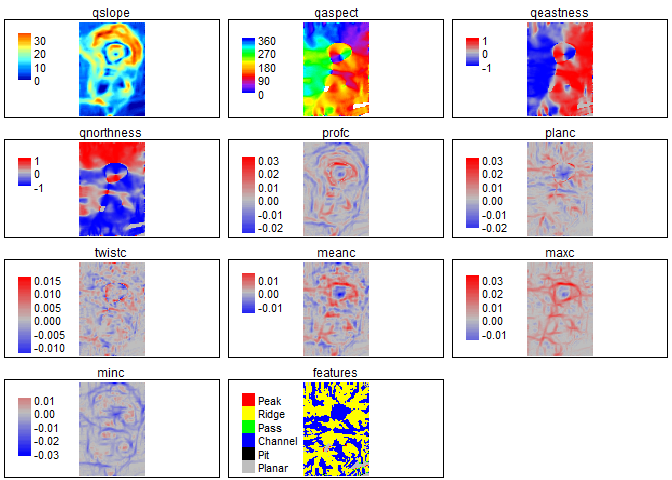
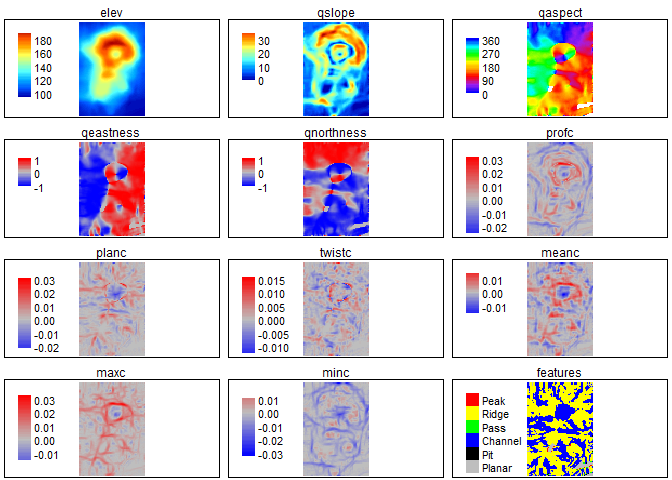
ReadMe update

diff --git a/README.md b/README.md
@@ -1,7 +1,7 @@
 README
 ================
 Alexander Ilich
-December 17, 2021
+December 18, 2021
 
 # MultiscaleDEM
 
@@ -27,8 +27,8 @@ If you don’t already have remotes installed, use the code
 
 Then to install this package use the code
 `remotes::install_github("ailich/MultiscaleDEM")` (you may need to
-install Rtools using the instructions found here:
-<https://cran.r-project.org/bin/windows/Rtools/>)
+install Rtools using the instructions found
+[here](https://cran.r-project.org/bin/windows/Rtools/)
 
 This package relies on the `terra` package for handling of spatial
 raster data. To install the development version of `terra`, use
@@ -133,14 +133,15 @@ slp_asp<- SlpAsp(r = r, w = c(5,5), unit = "degrees", method = "queen", metrics 
 ![](README_files/figure-gfm/unnamed-chunk-6-1.png)<!-- -->
 
 ``` r
-WE<- WoodEvans(r, w = c(5,5), unit = "degrees", metrics = c("qslope", "qaspect", "qeastness", "qnorthness", "profc", "planc", "twistc",
+WE<- WoodEvans(r, w = c(5,5), unit = "degrees", metrics = c("elev", "qslope", "qaspect", "qeastness", "qnorthness", "profc", "planc", "twistc",
     "meanc", "maxc", "minc", "features"), na.rm = TRUE)
 ```
 
 ![](README_files/figure-gfm/unnamed-chunk-8-1.png)<!-- -->
 
 To explore these measures in an interactive environment use
-`explore_terrain()`
+`explore_terrain()` or go to this
+[website](https://ailich.shinyapps.io/Terrain_Attributes_Explorer_App/)
 
 ### Rugosity
 
